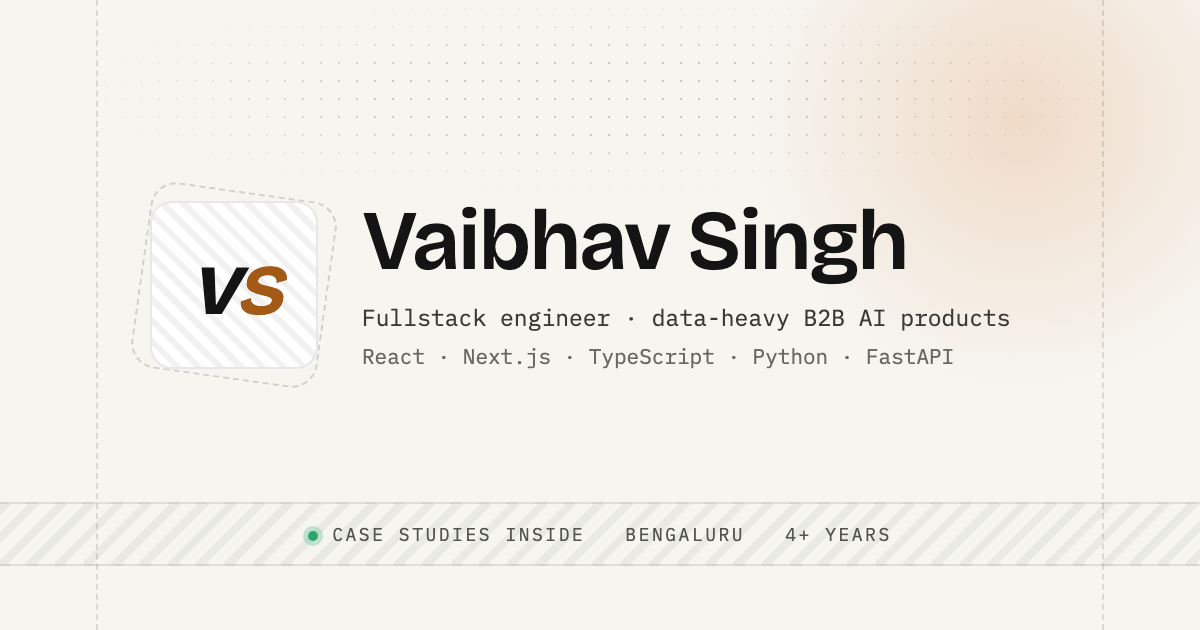
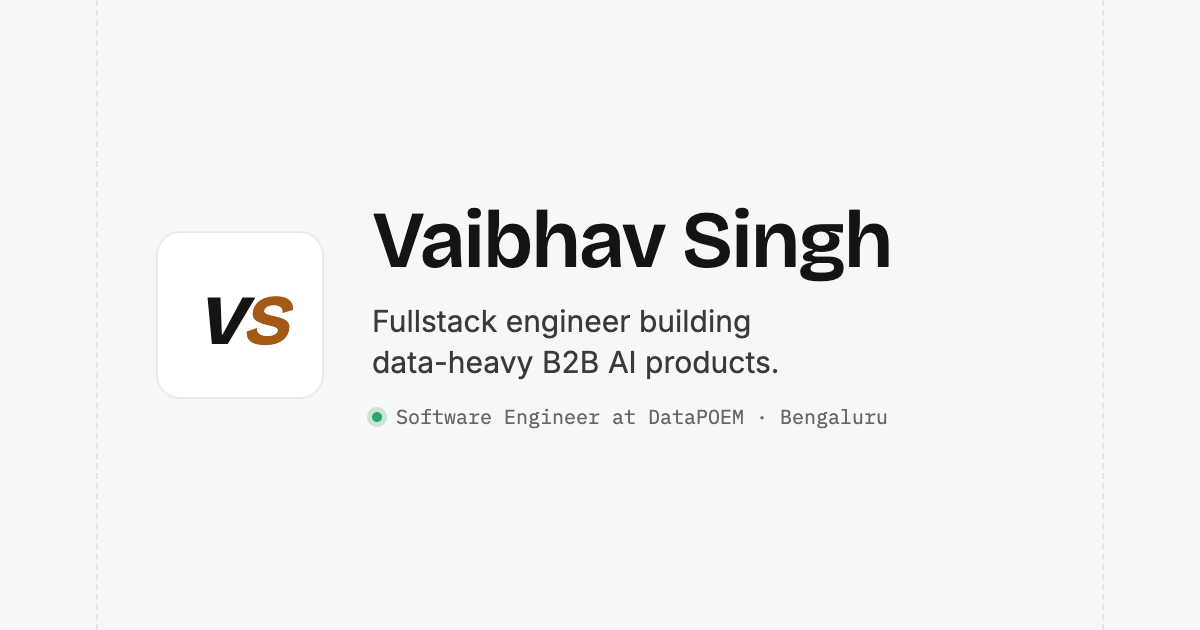
feat(seo): social preview image in the neutral theme, without the hatched strip

diff --git a/tools/og.html b/tools/og.html
@@ -1,30 +1,32 @@
 <!-- Source for public/og.png (1200x630). Regenerate with:
      "/Applications/Google Chrome.app/Contents/MacOS/Google Chrome" --headless=new --hide-scrollbars \
        --force-device-scale-factor=1 --window-size=1200,630 --virtual-time-budget=5000 \
-       --screenshot=public/og.png "file://$PWD/tools/og.html"  -->
+       --screenshot=public/og.png "file://$PWD/tools/og.html"
+     Matches the site's light theme: neutral off-white page, white tile, no decoration. -->
 <!doctype html><html><head><meta charset="utf-8">
-<link rel="stylesheet" href="https://fonts.googleapis.com/css2?family=Inter:wght@400;500&family=IBM+Plex+Mono:wght@400;500&family=Bricolage+Grotesque:ital,wght@0,600;1,600&display=block">
+<link rel="stylesheet" href="https://fonts.googleapis.com/css2?family=Inter:wght@400;500&family=IBM+Plex+Mono:wght@400&family=Bricolage+Grotesque:ital,wght@0,600;1,600&display=block">
 <style>
 *{box-sizing:border-box;margin:0}
 html,body{width:1200px;height:630px;overflow:hidden}
-body{background:#f6f5f0;color:#141414;font-family:Inter,sans-serif;position:relative}
-.rule{position:absolute;top:0;bottom:0;border-left:2px dashed rgba(20,20,20,.12)}
+body{background:#f7f7f7;color:#141414;font-family:Inter,sans-serif;position:relative}
+.rule{position:absolute;top:0;bottom:0;border-left:2px dashed rgba(0,0,0,.08)}
 .l{left:96px}.r{right:96px}
-.dots{position:absolute;left:96px;right:96px;top:0;height:190px;background-image:radial-gradient(rgba(20,20,20,.2) 1.5px,transparent 1.5px);background-size:18px 18px;-webkit-mask-image:radial-gradient(ellipse at center,#000 30%,transparent 75%)}
-.glow{position:absolute;width:760px;height:760px;right:-200px;top:-260px;background:radial-gradient(closest-side,rgba(217,126,56,.22),transparent 70%)}
-.wrap{position:absolute;left:150px;right:120px;top:200px;display:flex;gap:44px;align-items:center}
-.av{flex:none;width:168px;height:168px;border-radius:22px;border:2px solid rgba(20,20,20,.1);background:#fff;display:grid;place-items:center;position:relative;overflow:hidden}
-.av:after{content:"";position:absolute;inset:0;background:repeating-linear-gradient(45deg,rgba(20,20,20,.06) 0 6px,transparent 6px 15px)}
-.avw{position:relative;flex:none}.ring{position:absolute;inset:-10px;border:2px dashed rgba(20,20,20,.16);border-radius:26px;transform:rotate(8deg)}
-.mono{position:relative;z-index:1;font-family:'Bricolage Grotesque';font-style:italic;font-weight:600;font-size:88px;letter-spacing:-.04em}
+.wrap{position:absolute;left:156px;right:156px;top:50%;transform:translateY(-50%);display:flex;gap:48px;align-items:center}
+.av{flex:none;width:168px;height:168px;border-radius:24px;border:2px solid rgba(0,0,0,.08);background:#fff;display:grid;place-items:center}
+.mono{font-family:'Bricolage Grotesque';font-style:italic;font-weight:600;font-size:88px;letter-spacing:-.04em}
 .mono span{color:#a35a17}
-h1{font-family:'Bricolage Grotesque';font-weight:600;font-size:84px;letter-spacing:-.025em;line-height:1}
-.tag{font-family:'IBM Plex Mono';font-size:23px;white-space:nowrap;color:#3a3a38;margin-top:18px}
-.strip{position:absolute;left:0;right:0;bottom:64px;height:64px;border-top:2px solid rgba(20,20,20,.1);border-bottom:2px solid rgba(20,20,20,.1);background:repeating-linear-gradient(135deg,rgba(20,20,20,.05) 0 8px,transparent 8px 20px);display:flex;align-items:center;justify-content:center;gap:40px;font-family:'IBM Plex Mono';font-size:18px;letter-spacing:.14em;text-transform:uppercase;color:#55554f}
-.dot{display:inline-block;width:10px;height:10px;border-radius:9px;background:#2ca76c;box-shadow:0 0 0 5px rgba(44,167,108,.25);margin-right:14px;vertical-align:middle}
+h1{font-family:'Bricolage Grotesque';font-weight:600;font-size:80px;letter-spacing:-.025em;line-height:1}
+.lede{font-size:30px;line-height:1.35;color:#3a3a3a;margin-top:20px;max-width:640px;text-wrap:balance}
+.meta{font-family:'IBM Plex Mono';font-size:20px;color:#666;margin-top:22px;display:flex;align-items:center;gap:14px}
+.dot{width:10px;height:10px;border-radius:9px;background:#2ca76c;box-shadow:0 0 0 5px rgba(44,167,108,.22)}
 </style></head><body>
-<div class="glow"></div><div class="dots"></div><div class="rule l"></div><div class="rule r"></div>
-<div class="wrap"><div class="avw"><div class="ring"></div><div class="av"><span class="mono">v<span>s</span></span></div></div>
-<div><h1>Vaibhav Singh</h1><p class="tag">Fullstack engineer · data-heavy B2B AI products</p><p class="tag" style="font-size:21px;color:#6a6a64;margin-top:10px">React · Next.js · TypeScript · Python · FastAPI</p></div></div>
-<div class="strip"><span><span class="dot"></span>Case studies inside</span><span>Bengaluru</span><span>4+ years</span></div>
+<div class="rule l"></div><div class="rule r"></div>
+<div class="wrap">
+  <div class="av"><span class="mono">v<span>s</span></span></div>
+  <div>
+    <h1>Vaibhav Singh</h1>
+    <p class="lede">Fullstack engineer building data-heavy B2B AI products.</p>
+    <p class="meta"><span class="dot"></span>Software Engineer at DataPOEM · Bengaluru</p>
+  </div>
+</div>
 </body></html>
